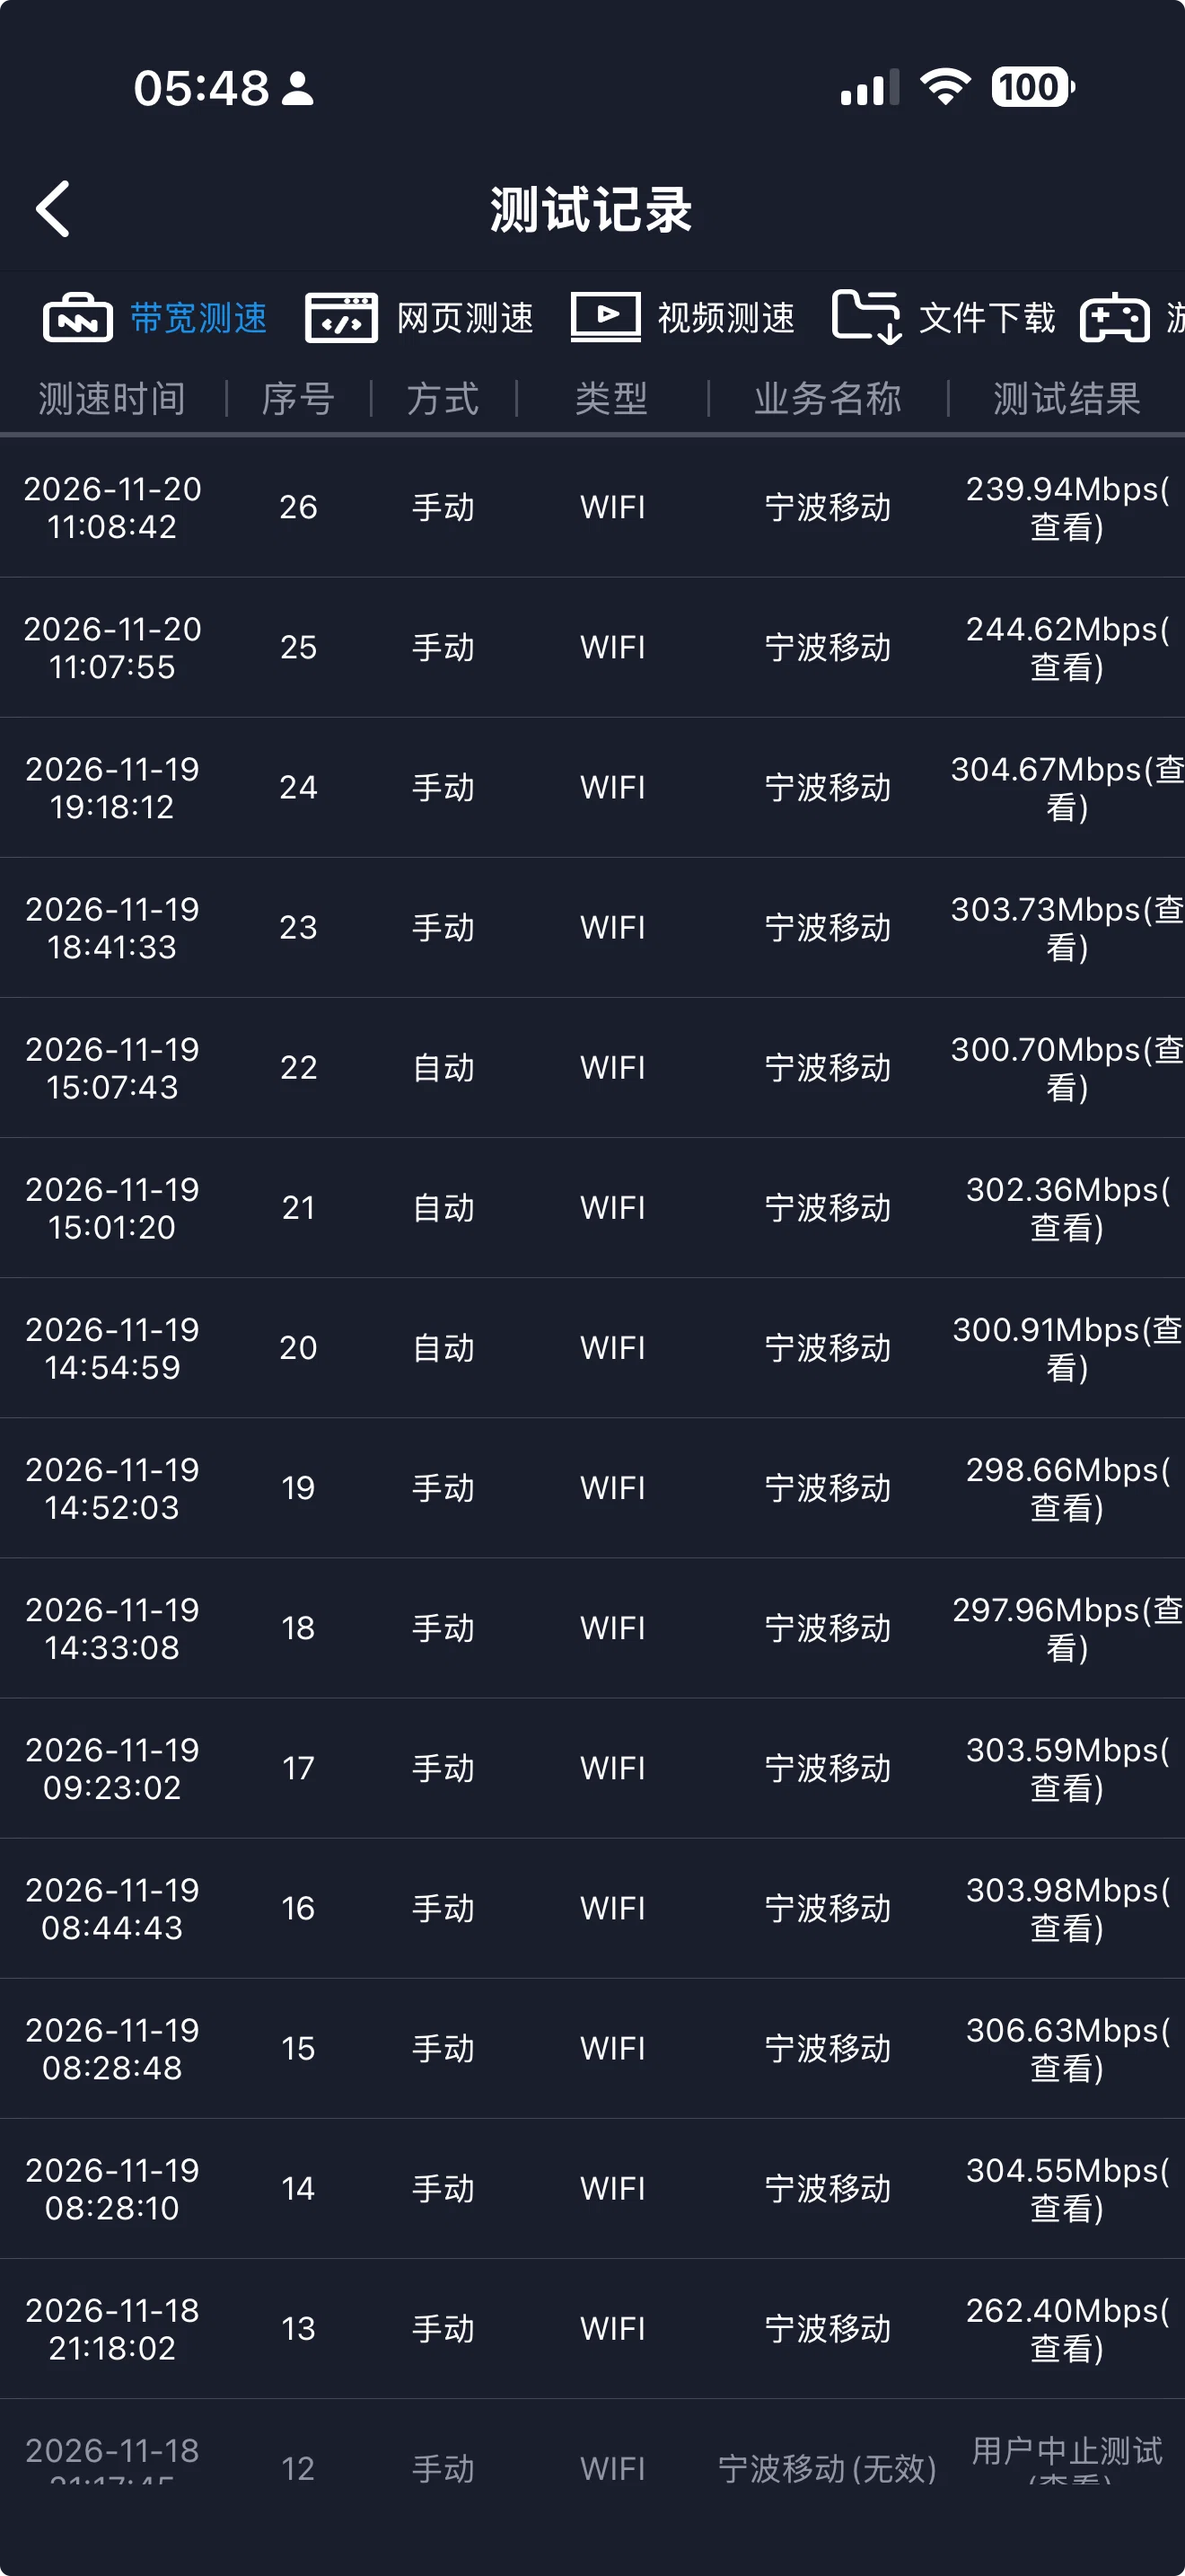
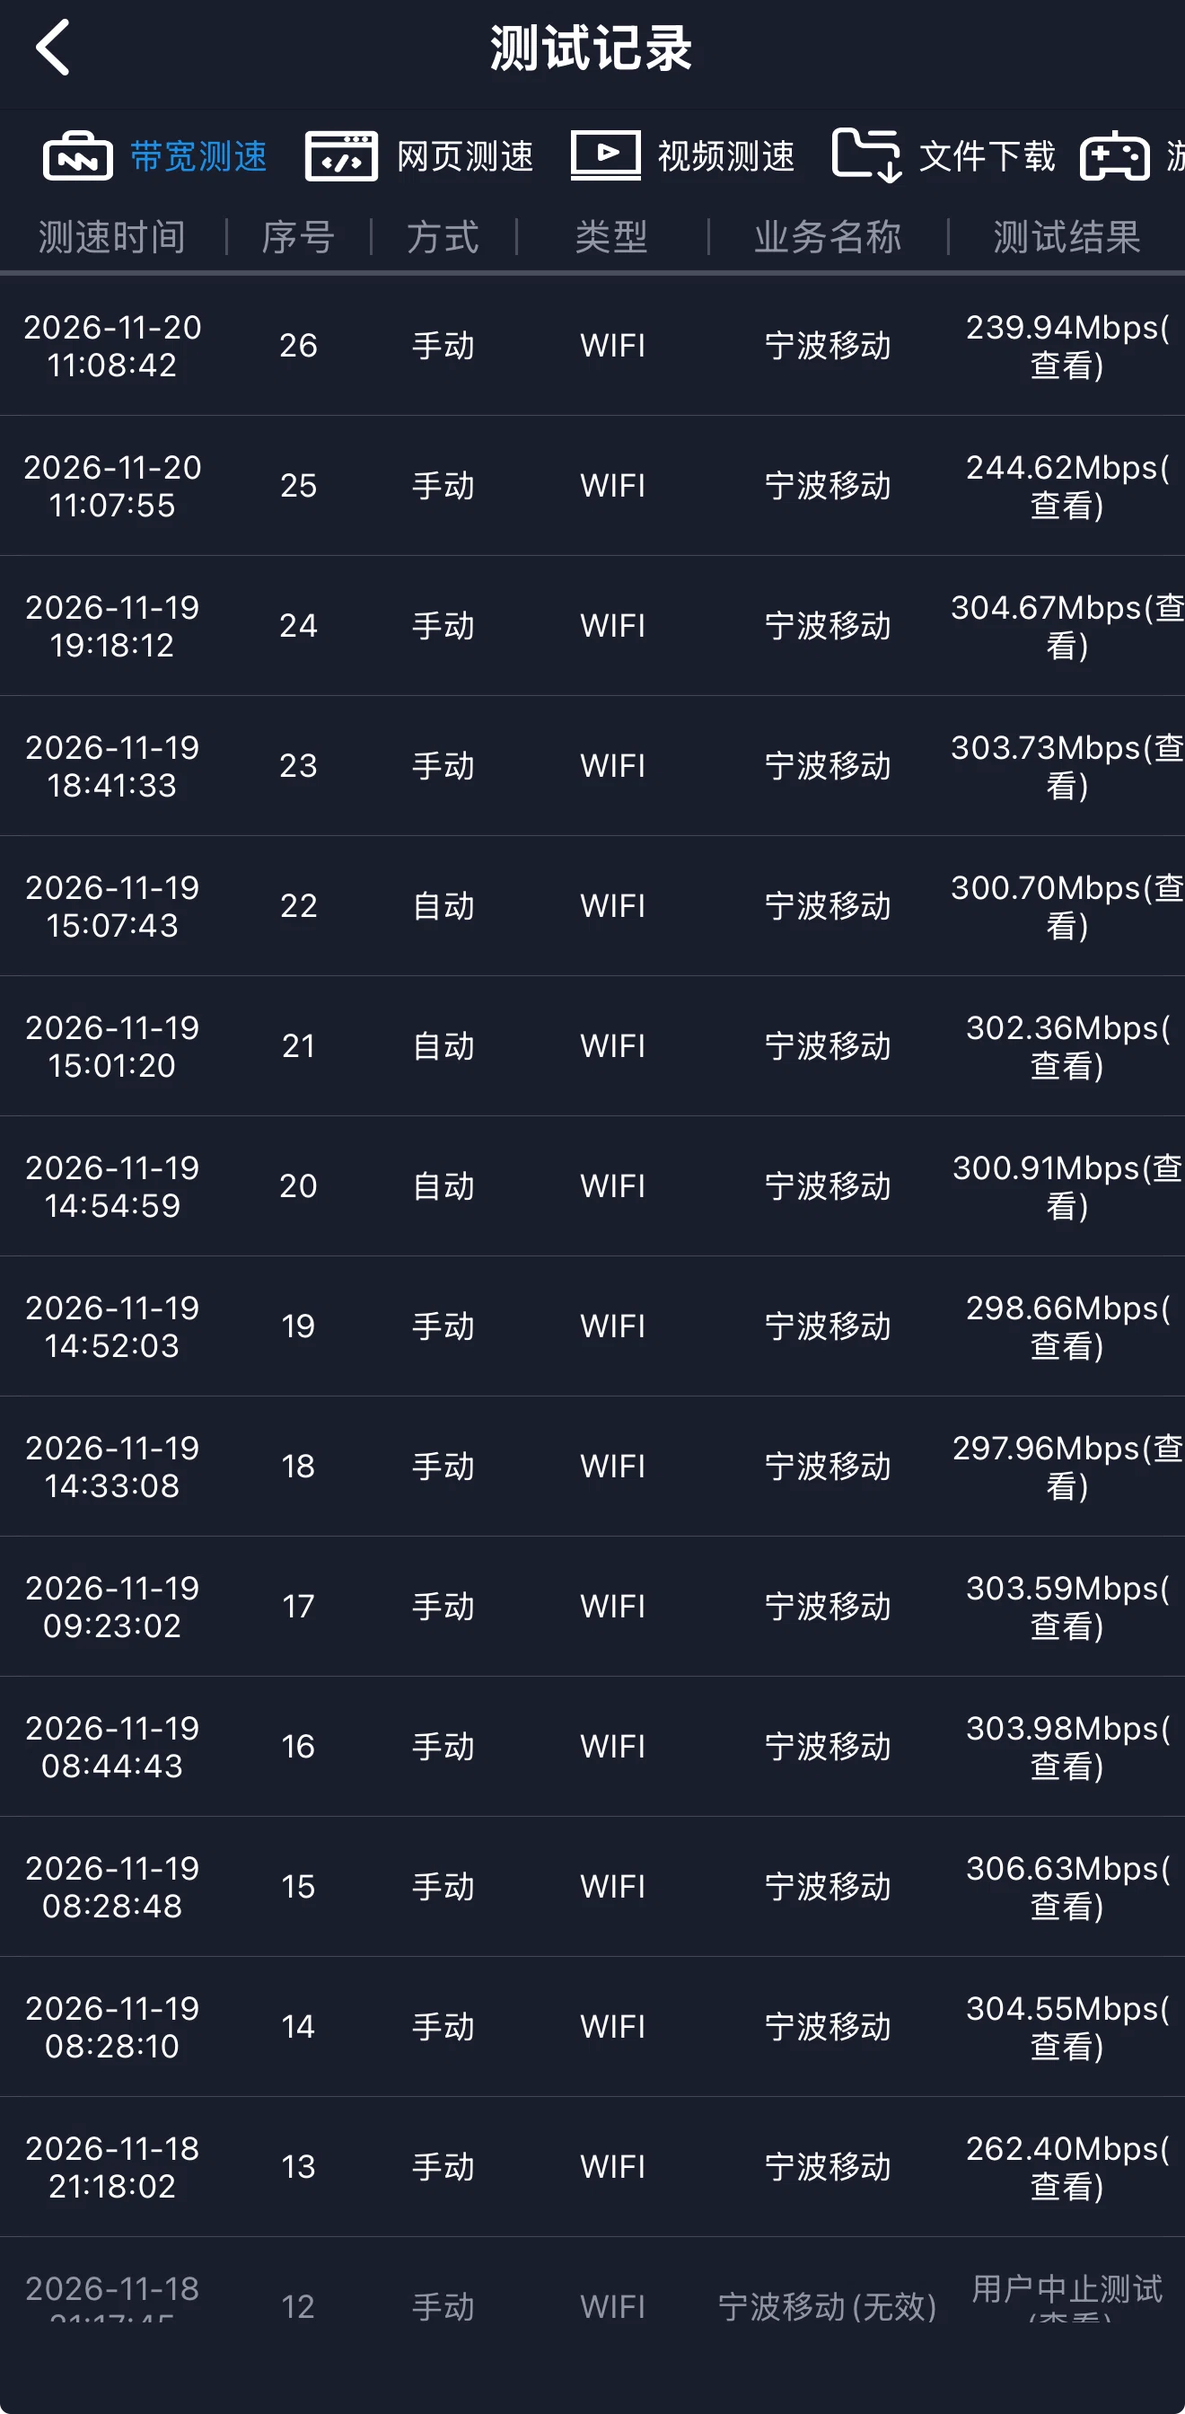
docs: 裁掉测速截图状态栏，补全 14 次测速记录

diff --git a/README.md b/README.md
@@ -35,13 +35,11 @@
 
 | 日期 | 结果 |
 |---|---|
-| 2026-11-19 15:07 | 300.70 Mbps |
-| 2026-11-19 18:41 | 303.73 Mbps |
-| 2026-11-19 19:18 | 304.67 Mbps |
-| 2026-11-19 08:28 | 306.63 Mbps |
-| 2026-11-20 11:08 | 239.94 Mbps（小区负载高） |
+| 2026-11-18 21:18 | 262.40 Mbps |
+| 2026-11-19（12 次） | 297.96 – 306.63 Mbps，中位数约 **303 Mbps** |
+| 2026-11-20 11:07 / 11:08 | 244.62 / 239.94 Mbps（小区忙时） |
 
-原始截图：[`docs/images/speedtest.png`](docs/images/speedtest.png)
+共 14 次测速记录，稳态在 **300 Mbps 上下**。原始截图：[`docs/images/speedtest.png`](docs/images/speedtest.png)
 
 优化前同一测法约 **200 Mbps**（当时未保存原始记录）。达到 300 Mbps 的关键是**让转发真正 offload 掉**，
 详见 [优化了什么](#优化了什么)：`flowtable` 补全真实网口、RPS 把收包软中断挪到 A76、
